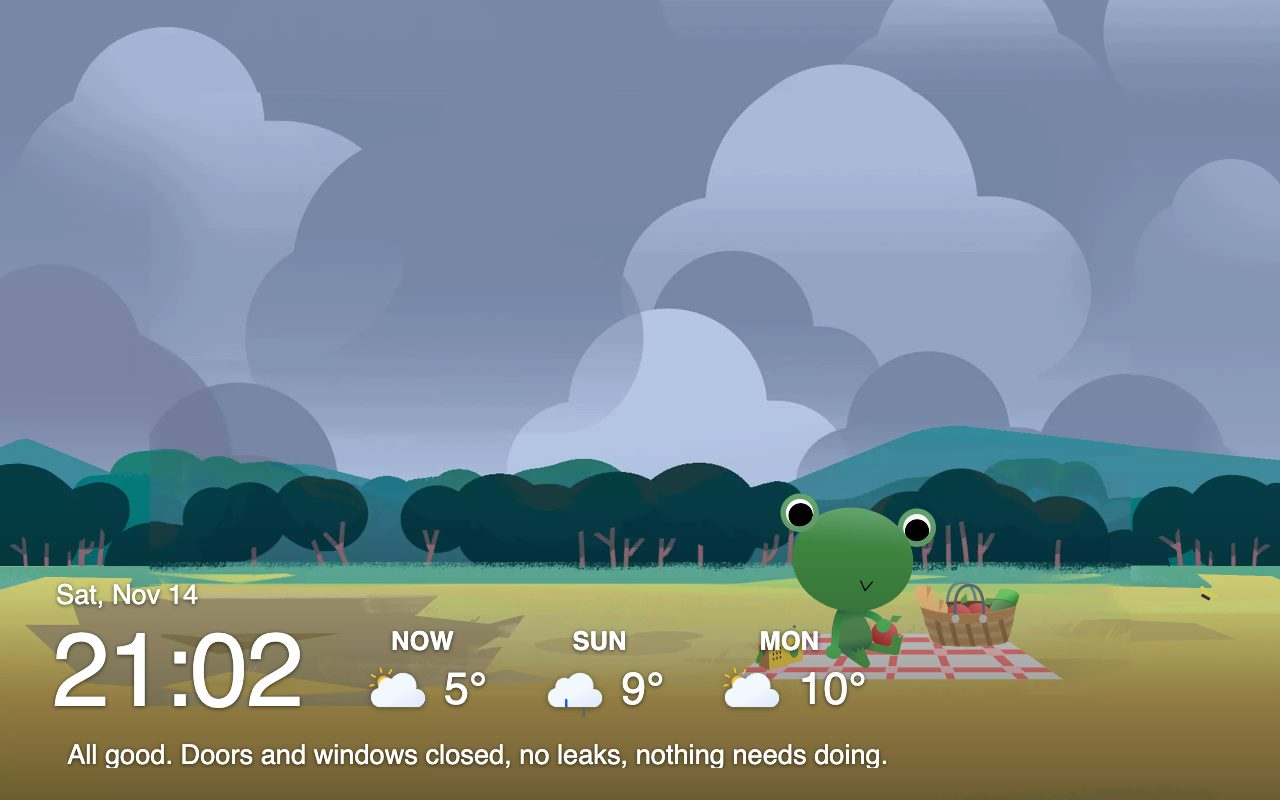
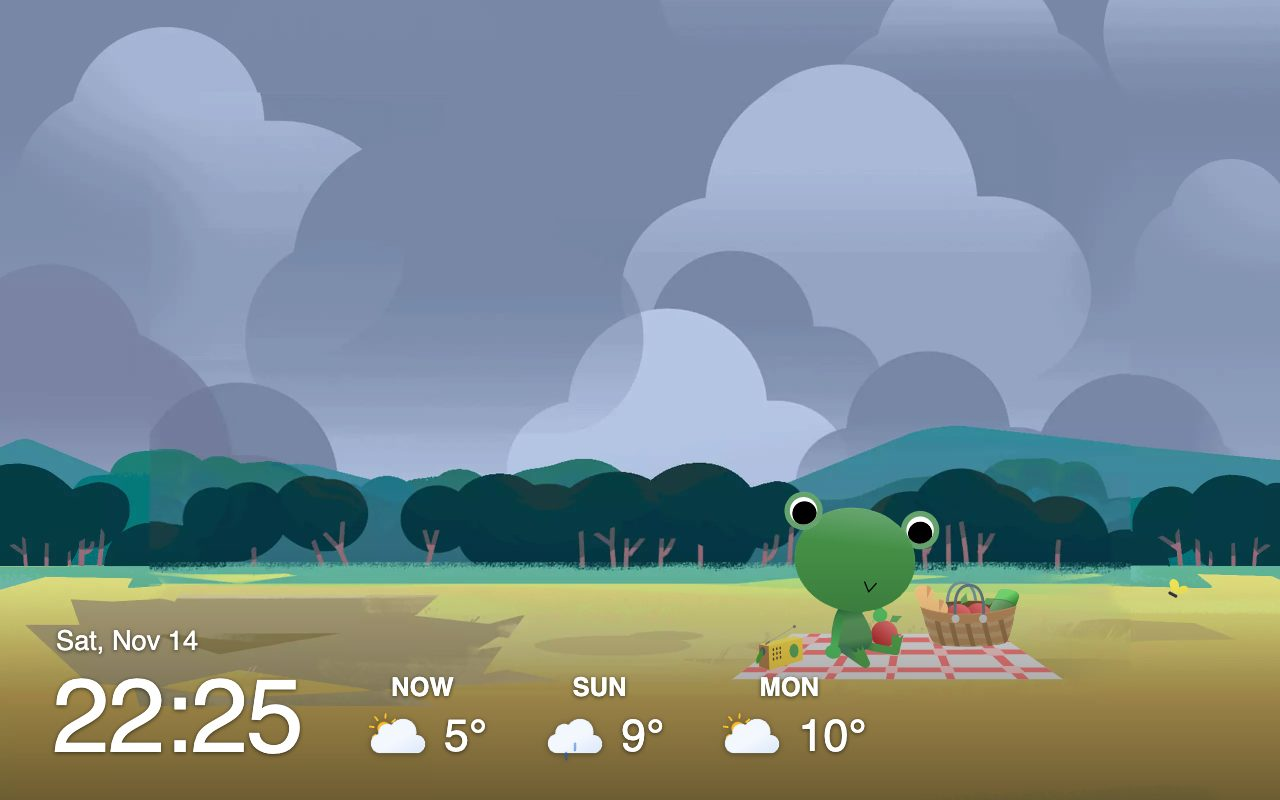
README: status line shown as an optional extra
The screenshots no longer show the status line, the main example no longer sets
status_entity, and a separate example shows how to turn it on.

diff --git a/README.md b/README.md
@@ -8,7 +8,7 @@ the scene, like a Google Nest Hub.
 If you miss the weather frog since Google removed its animations, this card is a good replacement:
 put it on a wall tablet, an old smart display or any Home Assistant dashboard and the frog is back.
 
-![The card filling a landscape screen, with the clock, the forecast and a status line](docs/landscape.jpg)
+![The card filling a landscape screen, with the clock and the forecast](docs/landscape.jpg)
 
 <img src="docs/portrait.jpg" alt="The card on a portrait screen" width="360">
 
@@ -25,7 +25,7 @@ put it on a wall tablet, an old smart display or any Home Assistant dashboard an
   weather entity and the sun.
 - The frog plays its animation, rests for a few seconds and plays again, as on the original.
 - Optional Nest Hub style overlay: date, large clock, now and the next days with colour weather
-  icons, and a status line from any sensor.
+  icons. It can also show an optional status line from any sensor; it is off unless you set one.
 - Everything is served by Home Assistant itself; the card makes no requests to other sites.
 - Works on wall tablets and smart displays without WebGL: the frog is then drawn in software, and
   where even that is impossible the card shows a still of the frog.
@@ -76,7 +76,7 @@ entity: weather.home
 | `forecast_days` | `2` | Nest overlay: how many days after today to show. |
 | `time_format` | from your profile | Nest overlay: `24` or `12` (12-hour times are shown without AM or PM, like the Nest Hub). |
 | `icons` | `meteocons` | Nest overlay: `meteocons` (colour) or `mdi` (white Material Design icons). |
-| `status_entity` | none | Nest overlay: a sensor whose text is shown on one line under the clock. |
+| `status_entity` | none (off) | Nest overlay: optional status line; a sensor whose text is shown on one line under the clock. |
 | `status_ok_prefix` | `All good` | Status text starting with this shows a green check; anything else an orange alert. |
 | `aspect_ratio` | `1` | Width divided by height of the card. |
 | `full_height` | `false` | Fill the window below the card's top edge, for a panel view or a kiosk screen. |
@@ -103,7 +103,18 @@ views:
         overlay: nest
         full_height: true
         border_radius: 0
-        status_entity: sensor.house_status
+```
+
+An optional status line under the clock, for example a template sensor that reads "All good" or
+lists what needs attention (green check when the text starts with `status_ok_prefix`, orange
+alert otherwise):
+
+```yaml
+type: custom:froggy-weather-card
+entity: weather.home
+overlay: nest
+status_entity: sensor.house_status
+status_ok_prefix: All good
 ```
 
 A strip across the top of a dashboard:
